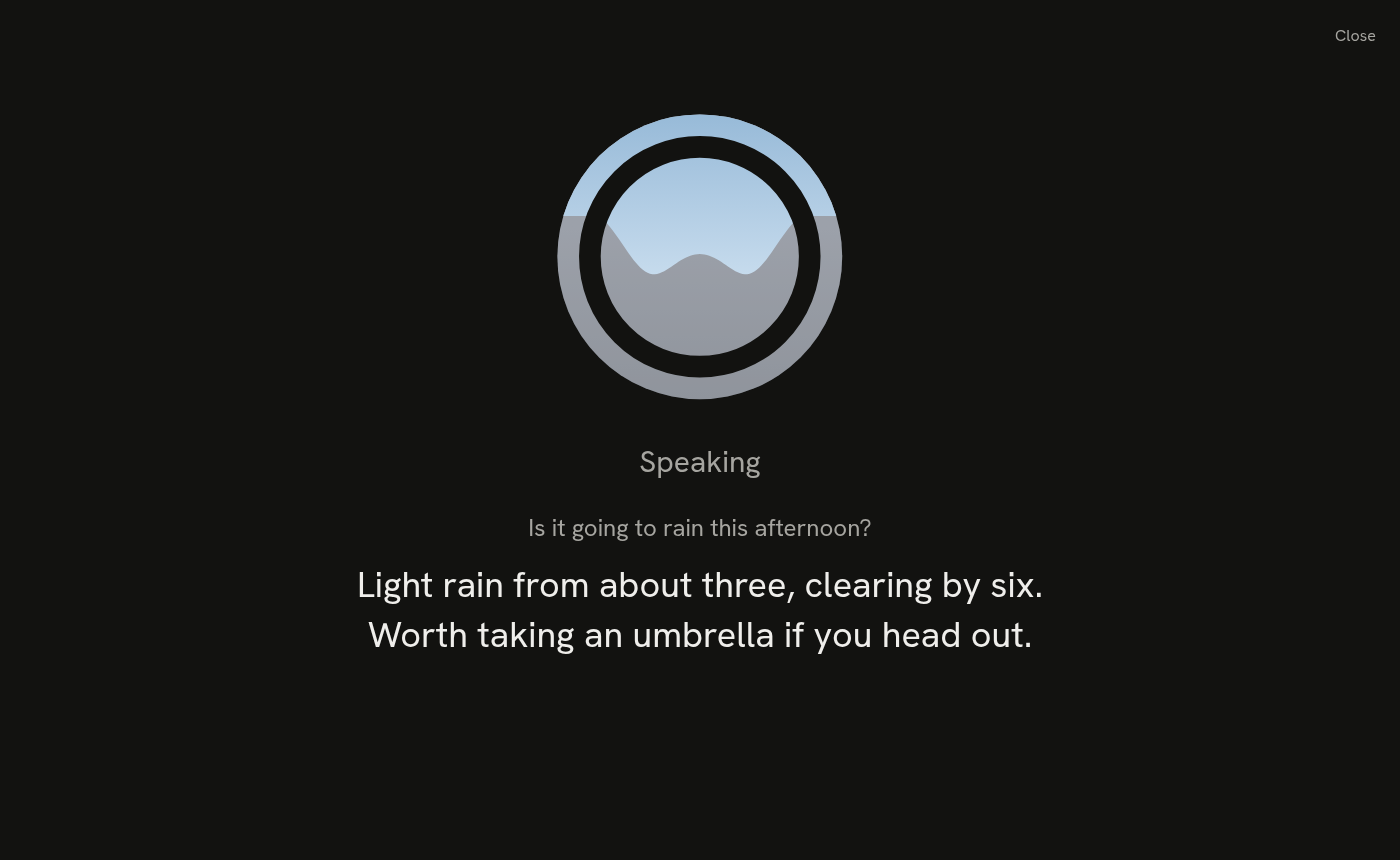
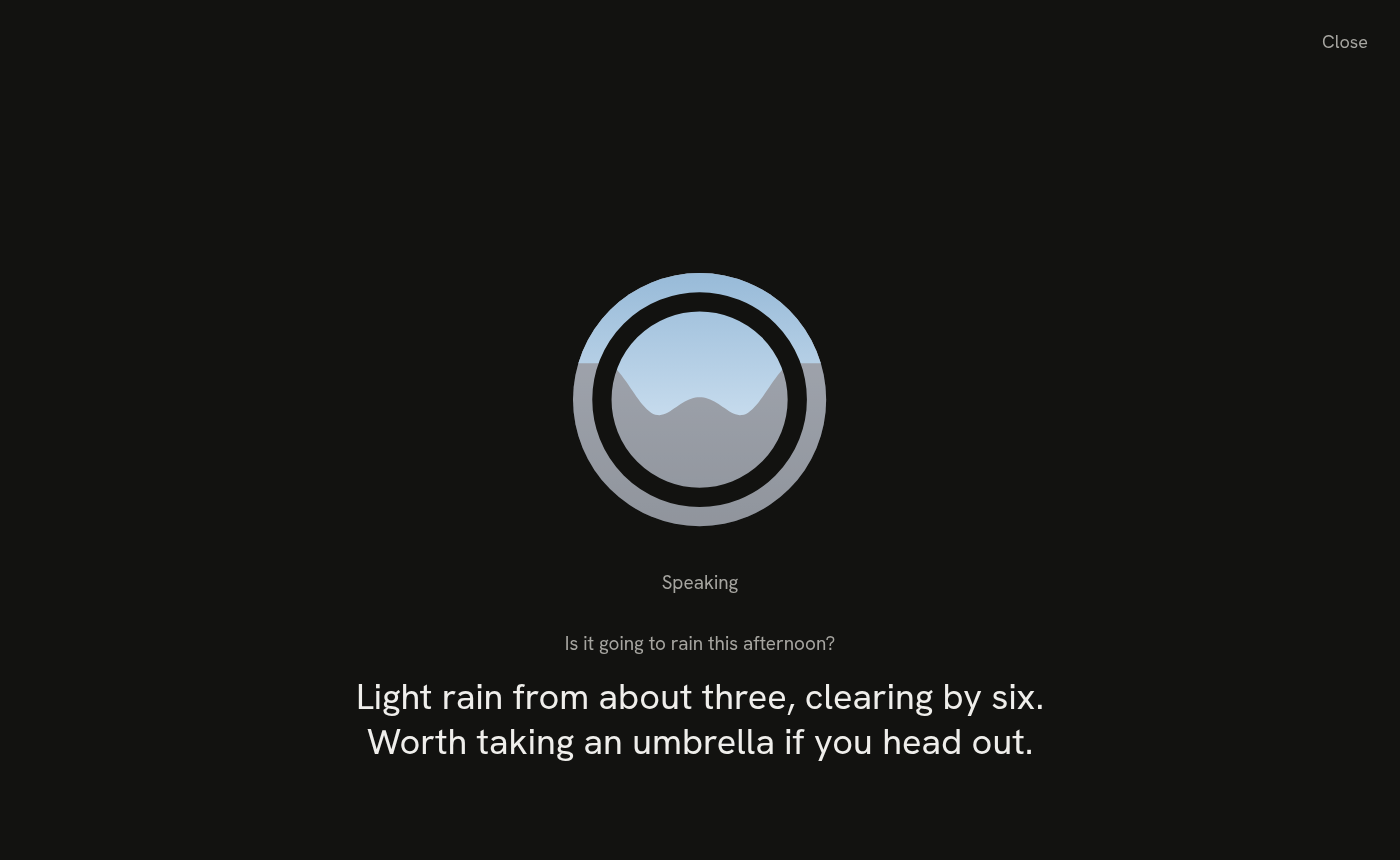
Dashboard: one fixed composition instead of shifting blocks
The mark and its state line sit in the middle row of a three-row grid and
never move; the words and announcements fill the row below. Type follows
the screen's short side in two sizes, so portrait and landscape tablets
both balance, and a long answer fits. Answering an announcement clears it.

diff --git a/web/src/pages/dashboard.tsx b/web/src/pages/dashboard.tsx
@@ -9,7 +9,7 @@ import { useWakeLock } from '@/hooks/use-wake-lock'
 
 const LINGER_SECS = 20 // the last exchange stays up this long after he goes idle
 const ANNOUNCE_SECS = 60 // an announcement holds the screen this long unless tapped away
-const TAIL = 240 // characters of a long reply kept on screen, the newest ones
+const TAIL = 180 // characters of a long reply kept on screen, the newest ones
 
 type Said = Extract<Item, { kind: 'user' | 'reply' }>
 
@@ -42,54 +42,62 @@ export default function DashboardPage() {
 
   const state = presence(feed, now)
   const seconds = now / 1000
-  const announcement = feed.items.findLast((item) => item.kind === 'announcement')
-  const showAnnouncement =
-    announcement?.kind === 'announcement' && announcement.id !== dismissed && seconds - announcement.ts < ANNOUNCE_SECS
+  const last = feed.items.findLastIndex((item) => item.kind === 'announcement')
+  const said = feed.items.findLastIndex((item) => item.kind === 'user')
+  const found = feed.items[last]
+  // An announcement holds the screen until it is tapped away, answered, or a minute old.
+  const announcement =
+    found?.kind === 'announcement' && found.id !== dismissed && said < last && seconds - found.ts < ANNOUNCE_SECS ? found : undefined
   const recent = state !== 'idle' || seconds - lastChange(feed) < LINGER_SECS
-  const { user, reply } = recent ? lastExchange(feed.items) : {}
+  const { user, reply } = recent && !announcement ? lastExchange(feed.items) : {}
   const line = voice === 'connecting' ? 'Connecting' : voice === 'off' && state === 'idle' ? 'Tap to talk' : STATE_LABEL[state]
 
+  // One composition for every view: the mark and its line fixed in the middle row, words in the row
+  // below, the empty row above balancing them. Type sizes follow the screen, two steps only.
   return (
-    <div className="relative flex h-svh flex-col items-center overflow-hidden px-6 text-center">
-      <Link to="/" className="absolute top-6 right-6 text-muted-foreground hover:text-foreground">
+    <div className="relative grid h-svh grid-rows-[1fr_auto_1fr] justify-items-center overflow-hidden px-8 text-center">
+      <Link to="/" className="absolute top-4 right-4 px-4 py-3 text-lg text-muted-foreground hover:text-foreground">
         Close
       </Link>
 
-      {showAnnouncement ? (
+      <div className="row-start-2 flex flex-col items-center gap-8">
         <button
           type="button"
-          onClick={() => setDismissed(announcement.id)}
-          aria-label="Dismiss the announcement"
-          className="flex flex-1 flex-col items-center justify-center gap-8"
+          aria-label={voice === 'off' ? 'Talk' : 'Stop talking'}
+          aria-pressed={voice !== 'off'}
+          disabled={voice === 'connecting'}
+          onClick={() => void (voice === 'off' ? start() : stop())}
+          className="rounded-full outline-none focus-visible:ring-4 focus-visible:ring-ring"
         >
-          <Presence state={state} className="size-[min(22svh,40vw)]" />
-          <span className="flex items-center gap-3 text-2xl text-muted-foreground">
-            <Bell className="size-7" />
+          <Presence state={state} className="size-[min(32svh,50vw)]" />
+        </button>
+        {announcement ? (
+          <span className="flex items-center gap-3 text-[clamp(1.125rem,2.2vmin,1.5rem)] text-muted-foreground">
+            <Bell className="size-[1em]" />
             {clock(announcement.ts)}
           </span>
-          <p className="max-w-5xl text-6xl/tight font-semibold text-balance">{announcement.text}</p>
-        </button>
-      ) : (
-        <>
-          <div className="flex flex-1 items-end justify-center pt-16 pb-8">
-            <button
-              type="button"
-              aria-label={voice === 'off' ? 'Talk' : 'Stop talking'}
-              aria-pressed={voice !== 'off'}
-              disabled={voice === 'connecting'}
-              onClick={() => void (voice === 'off' ? start() : stop())}
-              className="rounded-full outline-none focus-visible:ring-4 focus-visible:ring-ring"
-            >
-              <Presence state={state} className="size-[min(36svh,60vw)]" />
-            </button>
-          </div>
-          <p className="text-3xl text-muted-foreground">{line}</p>
-          <div className="flex max-w-5xl flex-1 flex-col items-center gap-4 pt-8">
-            {user && <p className="text-2xl text-muted-foreground">{tail(user.text)}</p>}
-            {reply && <p className="text-4xl/snug text-balance">{tail(reply.text.trim())}</p>}
-          </div>
-        </>
-      )}
+        ) : (
+          <p className="text-[clamp(1.125rem,2.2vmin,1.5rem)] text-muted-foreground">{line}</p>
+        )}
+      </div>
+
+      <div className="row-start-3 flex w-full max-w-[min(64rem,90vw)] flex-col items-center gap-4 overflow-hidden pt-8">
+        {announcement ? (
+          <button
+            type="button"
+            onClick={() => setDismissed(announcement.id)}
+            aria-label="Dismiss the announcement"
+            className="text-[clamp(1.75rem,4.2vmin,3rem)]/tight font-semibold text-balance"
+          >
+            {announcement.text}
+          </button>
+        ) : (
+          <>
+            {user && <p className="text-[clamp(1.125rem,2.2vmin,1.5rem)] text-muted-foreground">{tail(user.text)}</p>}
+            {reply && <p className="text-[clamp(1.75rem,4.2vmin,3rem)]/tight text-balance">{tail(reply.text.trim())}</p>}
+          </>
+        )}
+      </div>
     </div>
   )
 }

diff --git a/docs/running.md b/docs/running.md
@@ -41,7 +41,7 @@ few hundred events while winstond runs; it is not a transcript archive (the tool
 Dashboard mode, at http://localhost:8700/dashboard (the Dashboard link on the Talk page), is the
 same feed full screen for a wall tablet. Tap the logo to talk and again to hang up. The line under it
 follows his state; what you said and his answer show while he is busy and for 20 seconds after. An
-announcement takes the screen for a minute, or until you tap it. The page asks the browser to keep
+announcement takes the screen for a minute, until you tap it or until you answer it. The page asks the browser to keep
 the screen on, which like the mic only works on `localhost` or HTTPS. To show it in Home Assistant,
 add a Webpage card pointing at the dashboard URL; if Home Assistant itself is on HTTPS, the browser
 blocks a plain `http://` page inside it, so Winston needs HTTPS too.
